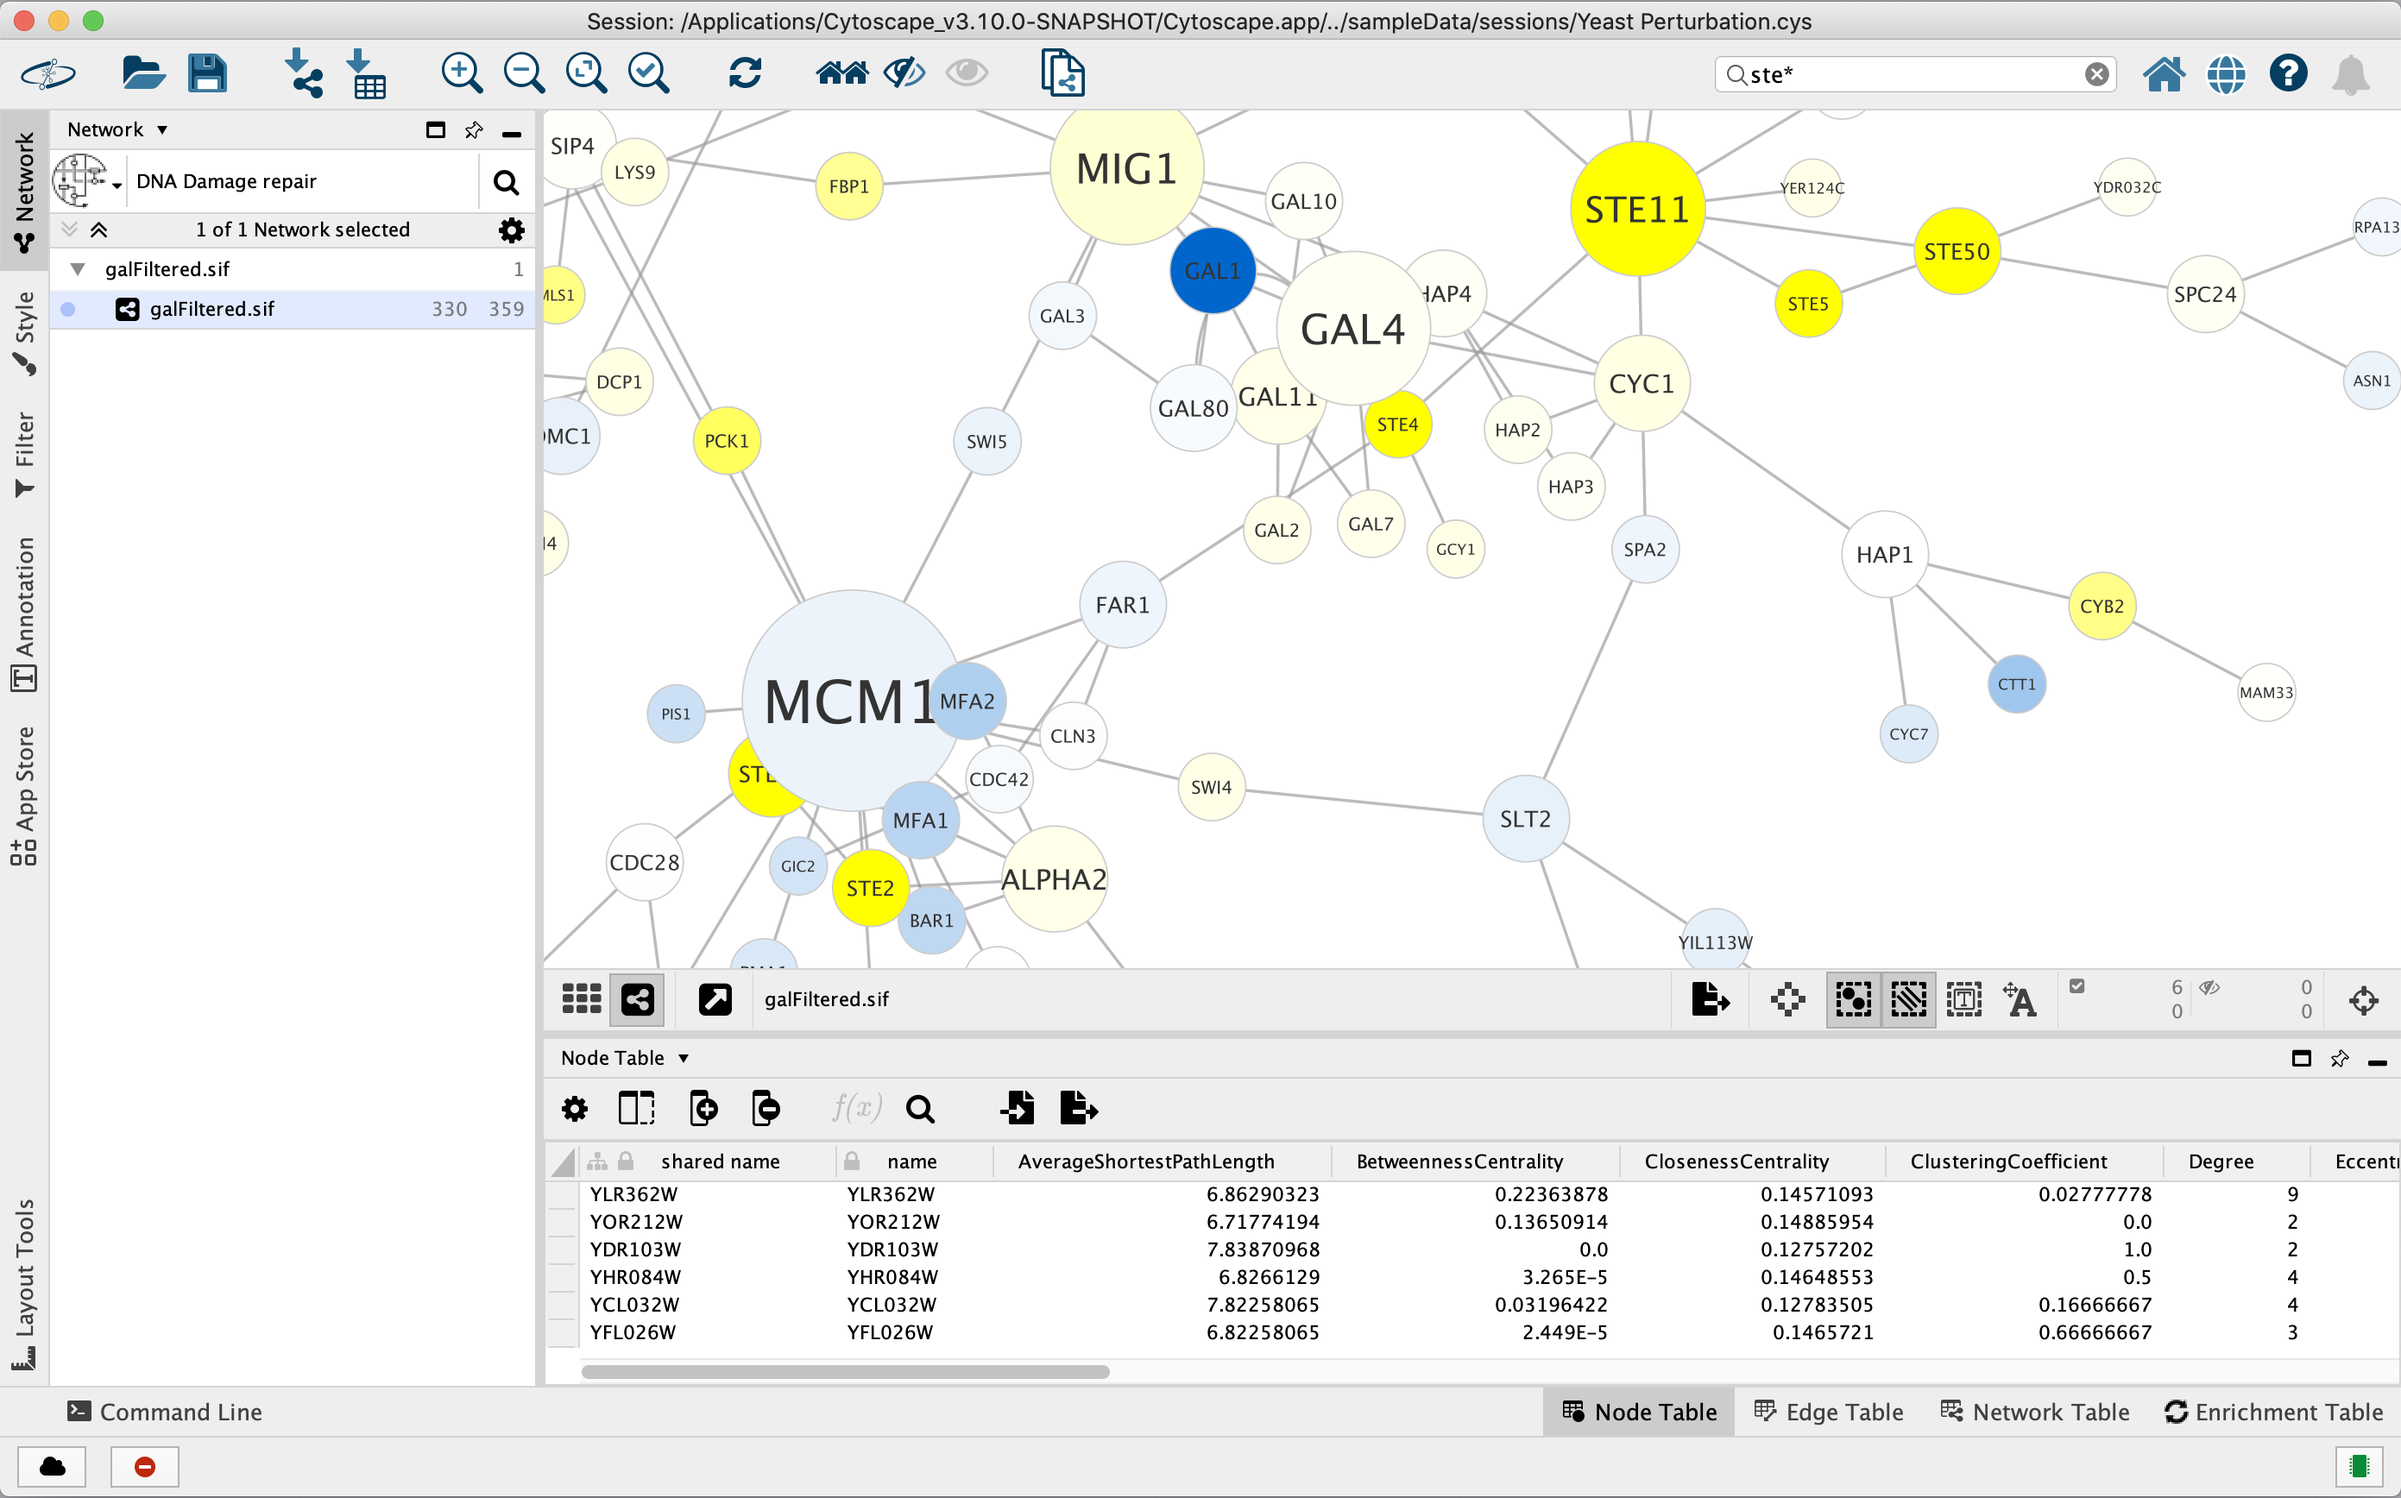
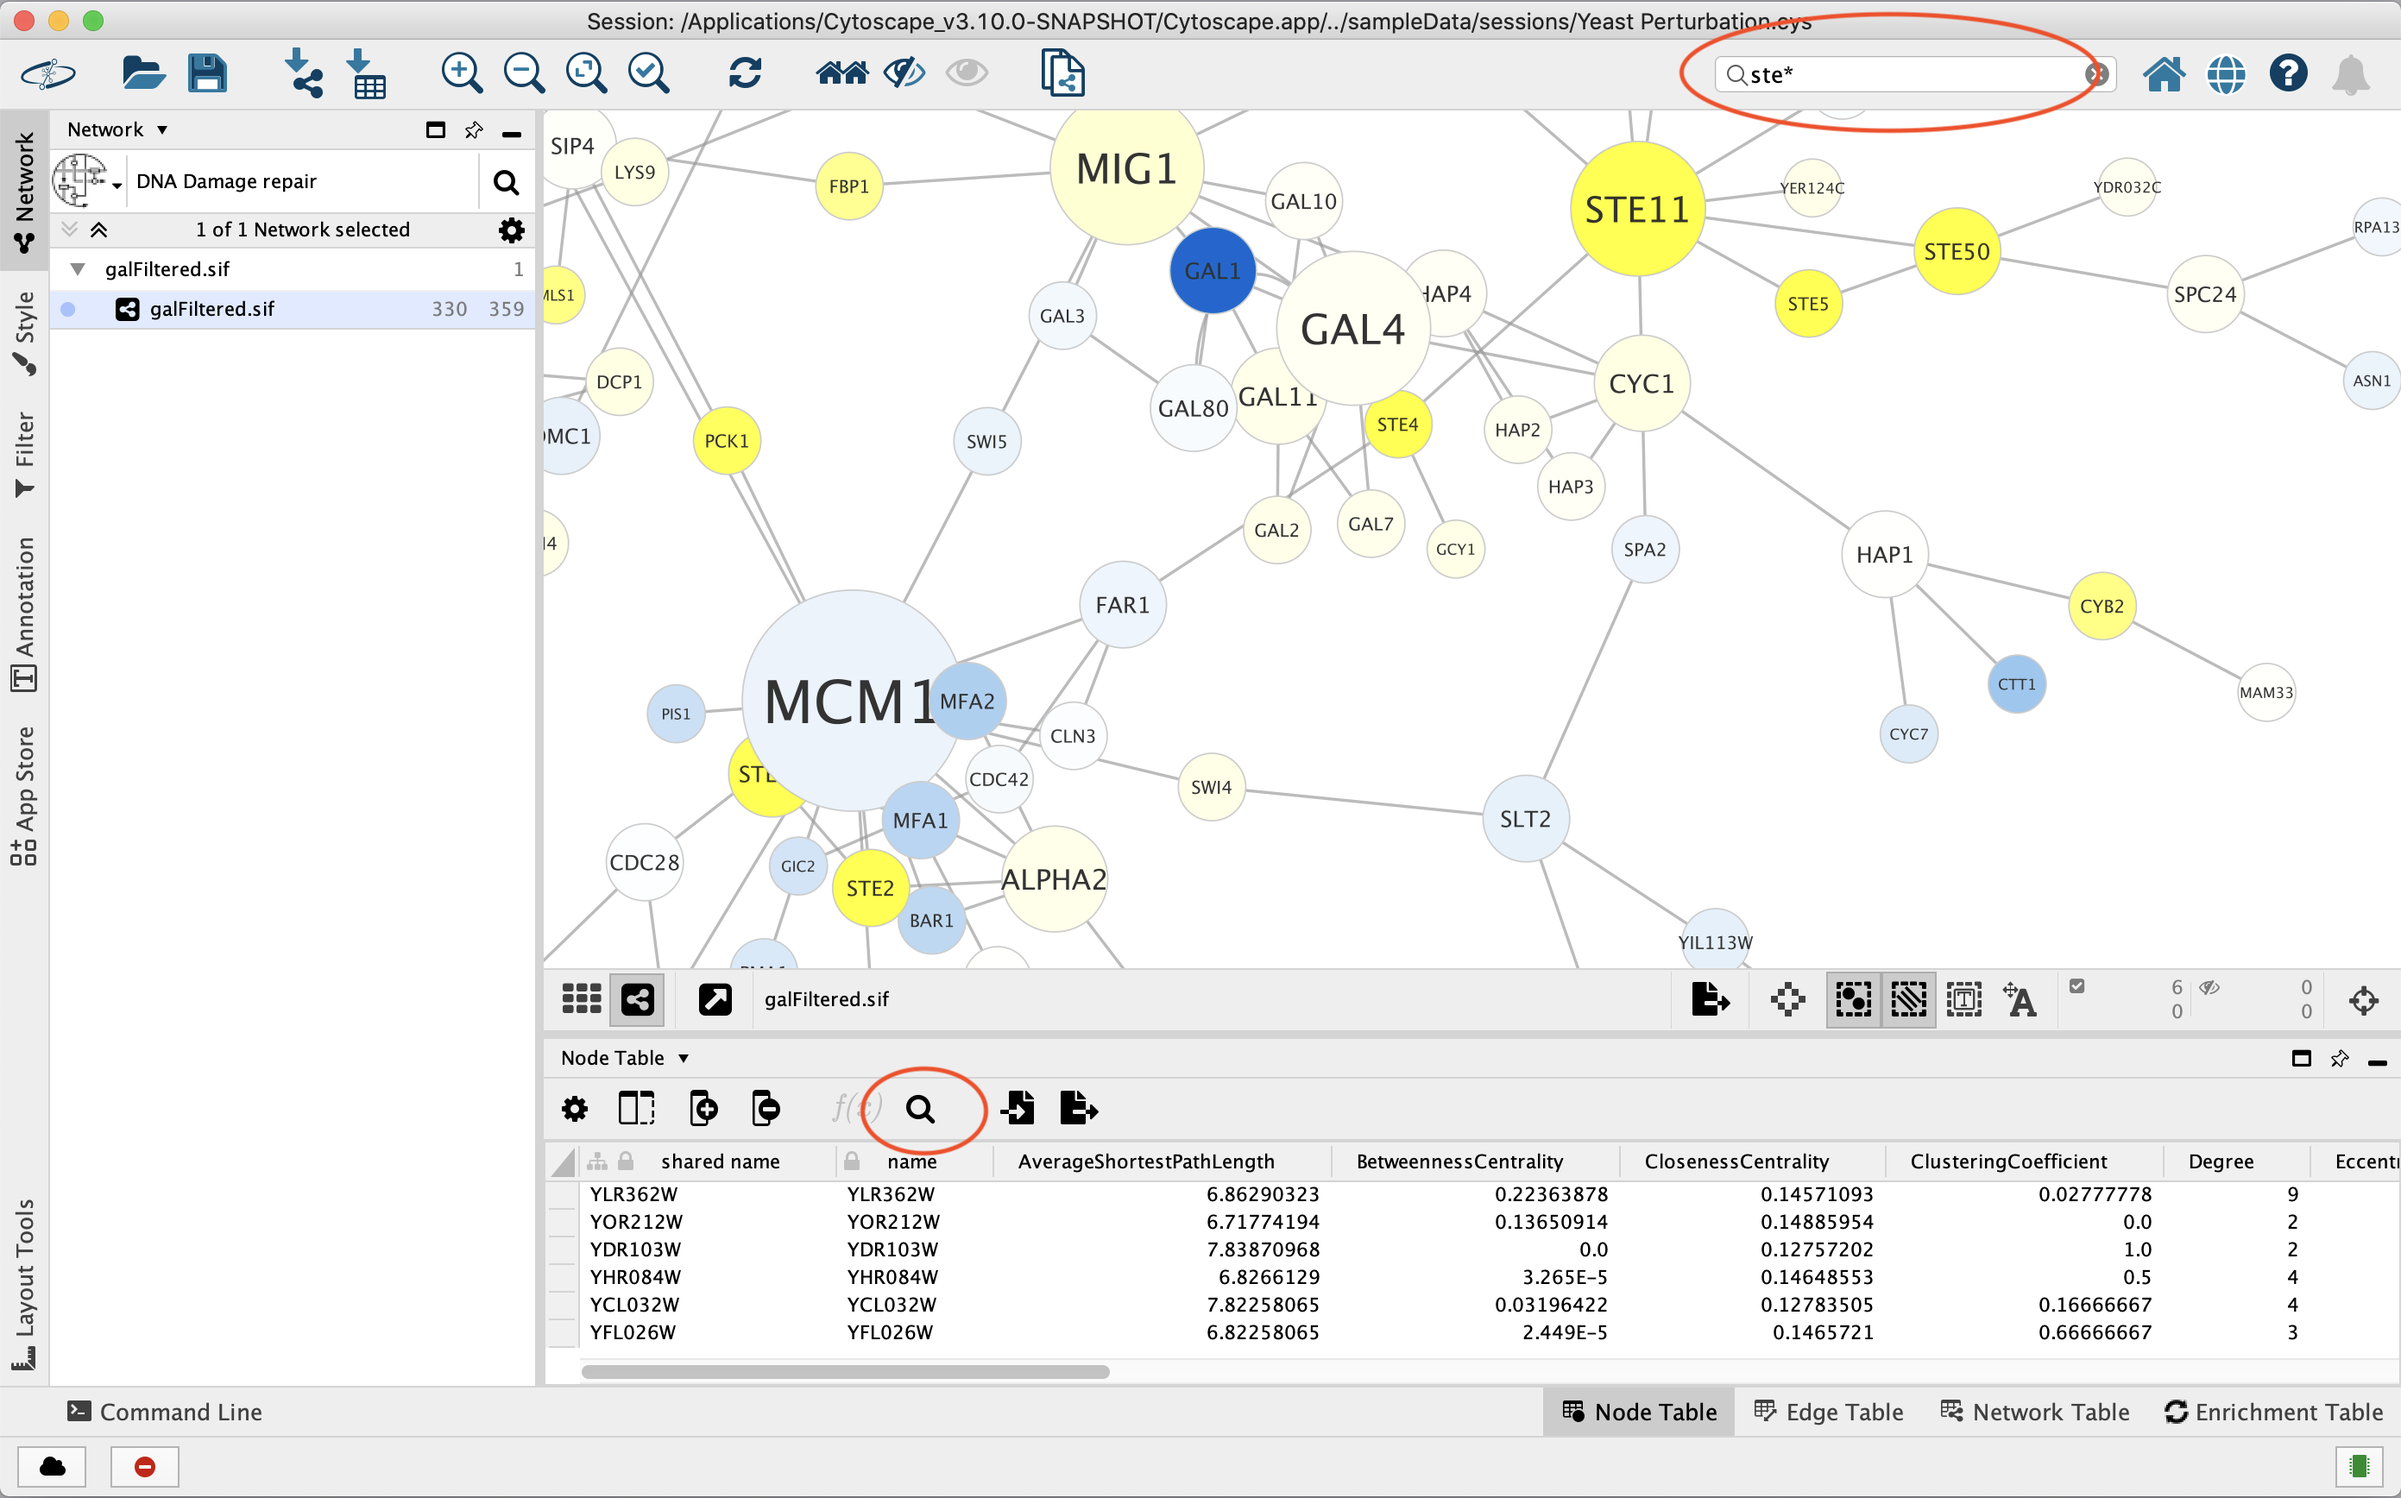
updates to search and minor format changes

diff --git a/docs/Finding_and_Filtering_Nodes_and_Edges.md b/docs/Finding_and_Filtering_Nodes_and_Edges.md
@@ -4,8 +4,8 @@
 <a id="search_bar"> </a>
 ## Search Bar
 
-You can search for nodes and edges by column value directly through
-Cytoscape's tool bar. For example, to select nodes or edges with a
+You can search for nodes and edges by column value directly through the search field in
+the **Tool Bar**, and by clicking the **Search Table** button in the **Table Panel** for **Node** and **Edge** tables. For example, to select nodes or edges with a
 column value that starts with _STE_, type `ste*` in the search bar. The
 search is case-insensitive. The `*` is a wildcard character that matches
 zero or more characters, while `?` matches exactly one character. So
@@ -20,9 +20,20 @@ that have a **COMMON** column value that starts with _STE_, use
 `common:ste*`. If you don't specify a particular column, all columns
 will be searched.
 
-Columns with names that contain spaces, quotes, or characters other than
-letters and numbers currently do not work when searching a specific
-column. This will be fixed in a future release.
+### Query Syntax
+The query syntax uses the <a href="https://lucene.apache.org/core/8_0_0/queryparser/org/apache/lucene/queryparser/classic/package-summary.html#package.description" target="_blank">standard Lucene QueryParser</a> with a few modifications.
+
+<table cellspacing="0" style="table-layout: fixed; width: 700px">
+<colgroup> <col style="width:100px"><col style="width:420px"> </colgroup>                                                                        <tbody>
+<tr> <th td class="alt">Query type</th><th class="center">Syntax</th>                                        
+<tr> <td td class="alt"><b>Multi-field query</b></td>        <td class="alt">For example `hello there`; entering any data will query all fields (columns) for that data. This only works with textual data, numeric data must be column specific.</td>             
+<tr> <td td class="alt"><b>Field query</b></td>  <td class="alt">`name:hello`; searches the **name** column for "hello".</td>   
+<tr> <td td class="alt"><b>Column namespaces</b></td>      <td class="alt">Using a column with a namespace in a field query requires that the namespace separator (::) be escaped: `EnrichmentMap\:\:pvalue:1.0`. However the column name without the namespace can also be used: `pvalue:1.0`</td>           
+<tr> <td td class="alt"><b>Wildcards</b></td>    <td class="alt">? matches any character, * matches any substring: `hell?`, `h*`.</td>  
+<tr> <td td class="alt"><b>Numeric queries</b></td>      <td class="alt">Due to a limitation in Lucene the field name must be provided when performing a numeric query: `pvalue:1.0`.</td>        
+<tr> <td td class="alt"><b>Numeric range queries</b></td>   <td class="alt">`pvalue:[0.2 TO 0.4]`. Also supports exclusive queries using curly braces: `pvalue:{0.0 TO 0.5}`.</td>  
+</tbody>
+</table>
 
 To search for column values that contain special characters you need to
 escape those characters using a **\\**. For example, to search for
@@ -34,6 +45,10 @@ characters is:
 **Note:** Escaping characters only works when searching all columns. It
 currently does not work for column-specific searching. This will be
 fixed in a future release.
+
+Columns with names that contain spaces, quotes, or characters other than
+letters and numbers currently do not work when searching a specific
+column. This will be fixed in a future release.
 
 <a id="the_select_menu"> </a>
 ## The Select Menu

diff --git a/docs/Panels.md b/docs/Panels.md
@@ -11,8 +11,8 @@ There are five panels that can be visible or hidden:
 ![](_static/images/Panels/DockWindow_310.png)
 
 Each panel contains multiple tabs. For example the **Control Panel** contains at a minimum the **Network**,
-**Style**, **Filter** and **Annotation** tabs. The **Table Panel** contains the **Node Table**, **Edge Table** and
-**Network Table** tabs. The **Node** and **Edge** tables contain any (data associated with nodes and edges)[Node_and_Edge_Column.html], and the **Network Table** contains network-wide associated data, for example URL or publication links. You can add relevant network-wide information to your network by adding columns in the **Network Table**. Analysis results from **Network Analyzer** (**Tools → Analyze Network**) 
+**Style**, **Filter** and **Annotation** tabs. The **Table Panel** contains the **Node Table**, **Edge Table**,
+**Network Table** and **Enrichment Table** tabs. The **Node** and **Edge** tables contain any (data associated with nodes and edges)[Node_and_Edge_Column.html], and the **Network Table** contains network-wide associated data, for example URL or publication links. You can add relevant network-wide information to your network by adding columns in the **Network Table**. Analysis results from **Network Analyzer** (**Tools → Analyze Network**) 
 are shown in **Results Panel**. Installed apps may add additional tabs.
 
 <a id="managing_panels"> </a>

diff --git a/docs/Column_Data_Functions_and_Equations.md b/docs/Column_Data_Functions_and_Equations.md
@@ -299,11 +299,11 @@ The screenshot below shows the source and target node column mappings, using the
 
 In order to ease the creation of formulas as well as to facilitate
 discovery of built-in functions we provide a **Formula Builder** in the
-Table Panel. The Formula Builder
+**Table Panel**. The Formula Builder
 is opened by clicking the
 ![](_static/images/Column_Formulas/fx-button.png) button.
 
-This should bring up the Formula Builder which looks like this:
+This should bring up the **Formula Builder** which looks like this:
 
 ![](_static/images/Column_Formulas/FunctionBuilder3.png)
 
